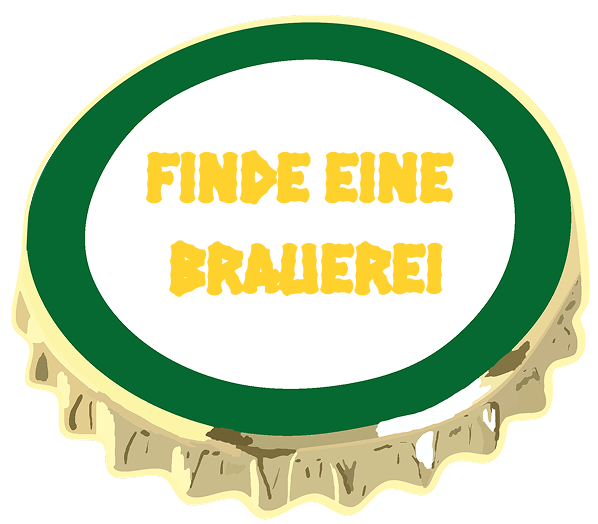
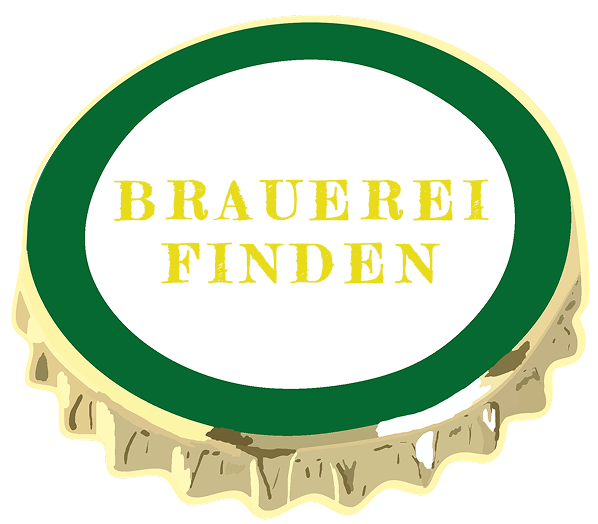
Mio

Changed region(s): [[0.1806, 0.2748, 0.8127, 0.4275], [0.2709, 0.458, 0.7525, 0.5802]]

diff --git a/style.css b/style.css
@@ -1,4 +1,4 @@
-
+@import url('https://fonts.googleapis.com/css2?family=Fredericka+the+Great&display=swap');
 @import url('https://fonts.googleapis.com/css2?family=Hanalei&family=Hanalei+Fill&display=swap');
 
 /* Alles zurücksetzen */
@@ -10,7 +10,7 @@
 
 html, body {
   background-color: #FFD12C; /* Beer color */
-  font-family:  "Hanalei Fill", sans-serif;
+  font-family: "Fredericka the Great", serif;
   position: relative;
 }
 
@@ -27,9 +27,12 @@ html, body {
 #liquid .bubble {
   position: absolute;
   bottom: 0;
-  background-color: rgba(255, 255, 255, 0.7); /* Make bubbles more visible */
+  background-color: rgba(255, 255, 255, 0.7);
   border-radius: 50%;
   opacity: 0.7;
+  aspect-ratio: 1 / 1; /* Ensures bubbles stay perfectly round */
+  width: 3vw;           /* Responsive width, scales with viewport width */
+  height: auto;         /* Height is set by aspect-ratio */
   animation-name: bubble;
   animation-iteration-count: infinite;
   animation-timing-function: linear;
@@ -65,8 +68,9 @@ header {
 }
 
 h1 {
-  font-family:  "Hanalei Fill", sans-serif;
+  font-family: "Oi", serif;
   font-size: clamp(1.5*3em, 5.5*3vw, 6.25*3rem);
+  margin-top: 20px;
   text-align: center;
   line-height: 1;
   pointer-events: none;
@@ -112,10 +116,14 @@ main {
   height: auto;       
   border: none;
   z-index: 1;
+  transition: 
+    opacity 0.2s,
+    transform 0.5s cubic-bezier(.68,-0.55,.27,1.55); /* bounce effect */
 }
 
-#getBreweryBtn:hover {
-  transform: scale(1.1);
+#getBreweryBtn:hover img {
+  content: url('Bilder/Bierdeckel_ausgewaehlt.png');
+  transform: scale(1.15) rotate(-8deg);
 }
 
 .flasche_map_wrapper {
@@ -138,7 +146,7 @@ main {
   top: 50%; /* half-way beneath the top of the image */
   left: 0;
   width: 100%;
-  height: 150%; /* you can adjust this for how much map is shown */
+  height: 137%; /* you can adjust this for how much map is shown */
   z-index: 1;
 }
 
@@ -165,16 +173,56 @@ main {
   pointer-events: none;
 }
 
+.fredericka-the-great-regular {
+  font-family: "Fredericka the Great", serif;
+  font-weight: 400;
+  font-style: normal;
+}
+
+h1,
+#noResultText,
+button,
+input,
+select,
+textarea,
+header,
+main,
+.flasche_bg,
+#getBreweryBtn,
+#getBreweryBtn img,
+#flasche,
+#map {
+  font-family: "Fredericka the Great", serif !important;
+  font-weight: 400;
+  font-style: normal;
+}
+
 @media only screen and (max-width: 605px) {
   #noResultText {
     font-size: clamp(0.67rem, 1.67vw, 1.3rem);
   }
   #map {
-    height: 200%; /* you can adjust this for how much map is shown */
+    height: 380%; /* you can adjust this for how much map is shown */
   }
   #getBreweryBtn {
-    margin-top: 30%;
+    margin-top: 45%;
     margin-bottom: 30%;
+  }
+  #getBreweryBtn img {
+    transform: scale(2);
+  }
+  #getBreweryBtn:hover img {
+    transform: scale(2.3) rotate(-8deg);
+  }
+  #liquid .bubble {
+  width: 8vw;
+  height: 8vw;
+  aspect-ratio: 1 / 1;
+  border-radius: 50%;
+  min-width: 20px;
+  min-height: 20px;
+  max-width: 60px;
+  max-height: 60px;
   }
 }
 

diff --git a/script.js b/script.js
@@ -73,6 +73,14 @@ document.addEventListener('DOMContentLoaded', () => {
         const mapContainer = document.getElementById('map');
         mapContainer.style.display = 'block';
 
+        // Flasche auf grün zurücksetzen
+        const flascheImg = document.getElementById('flasche');
+        if (flascheImg) {
+          flascheImg.src = 'Bilder/flasche_gruen.png';
+          // Alternativ absoluter Pfad:
+          // flascheImg.src = 'C:/Users/loren/OneDrive/Dokumente/School/FHGr/02_Semester 2/05_Interaktive Medien/Bierer/Bilder/flasche_gruen.png';
+        }
+
         // Initialize or update the map
         if (!map) {
           map = L.map('map').setView([lat, lng], 13);
@@ -95,6 +103,14 @@ document.addEventListener('DOMContentLoaded', () => {
         document.getElementById('noResultText').innerHTML = 'Fehler beim Laden :(<br>Probiere es doch noch einmal!';
         const mapContainer = document.getElementById('map');
         mapContainer.style.display = 'none'; // Hide map if no coordinates
+
+        // Flasche auf braun ändern
+        const flascheImg = document.getElementById('flasche');
+        if (flascheImg) {
+          flascheImg.src = 'Bilder/Flasche braun.png';
+          // Alternativ absoluter Pfad:
+          // flascheImg.src = 'C:/Users/loren/OneDrive/Dokumente/School/FHGr/02_Semester 2/05_Interaktive Medien/Bierer/Bilder/Flasche braun.png';
+        }
       }
     } catch (err) {
       document.getElementById('noResultText').innerHTML = 'Fehler beim Abrufen der Brauerei.';
